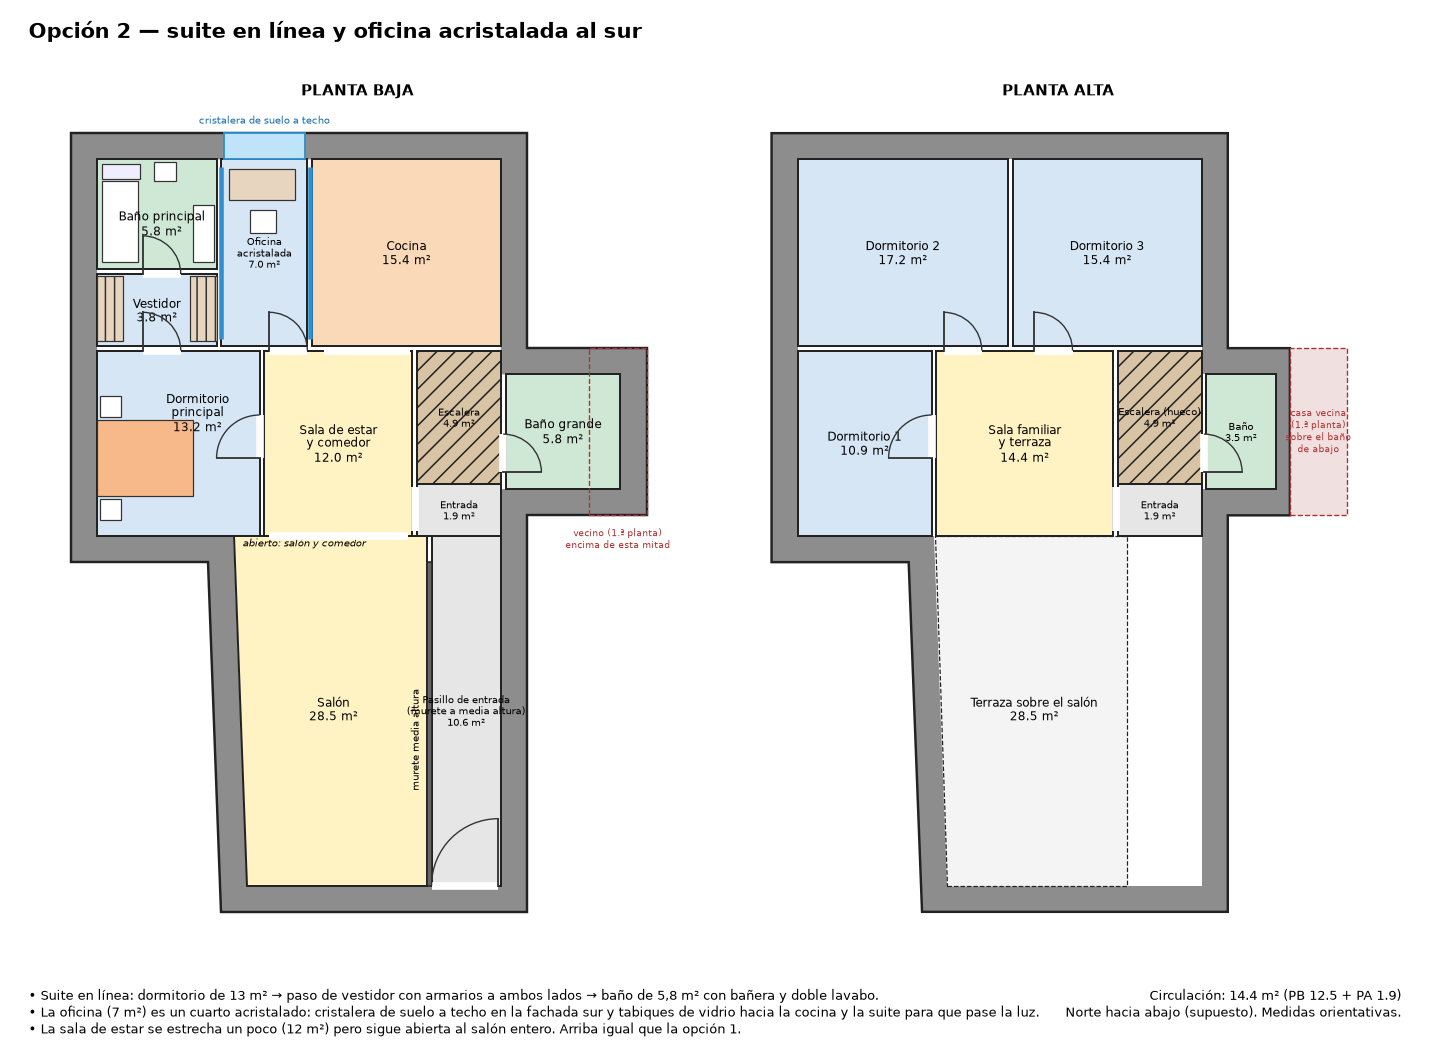
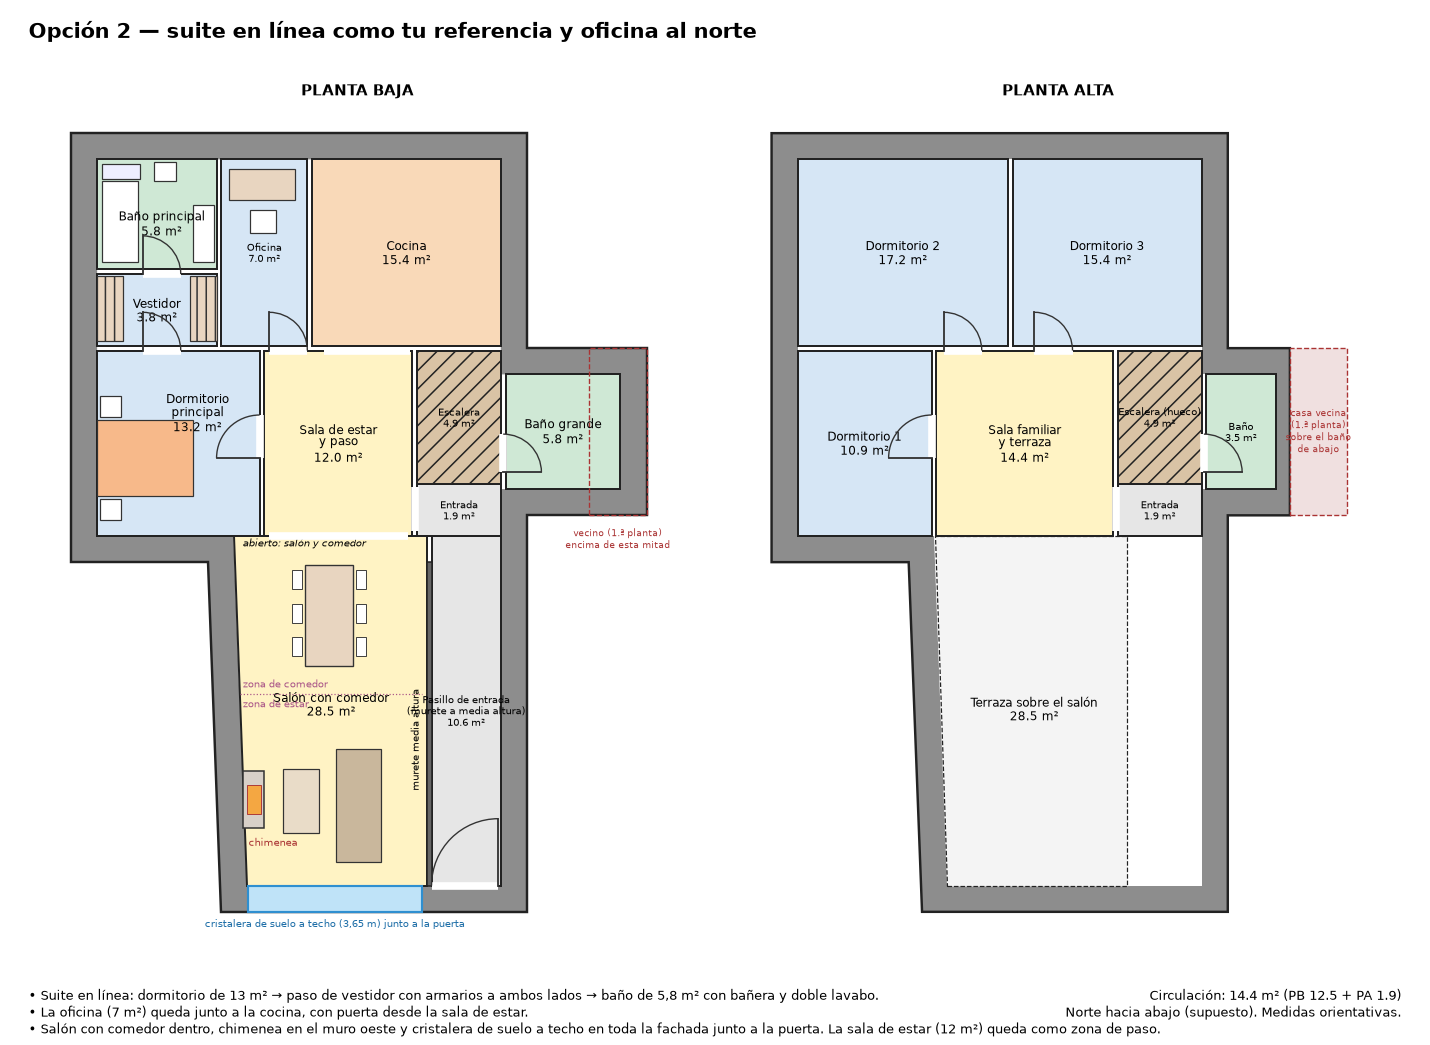
Salón con comedor dentro, chimenea en el muro oeste y cristalera frontal junto a la puerta; oficina normal
Claude-Session: https://claude.ai/code/session_01GrFzVPJDRJqirwnmNdffa5

diff --git a/casa3d/opciones.py b/casa3d/opciones.py
@@ -3,7 +3,7 @@ Arriba del croquis = sur (cocina); derecha = este; el pasillo de entrada va por 
 import math
 import matplotlib; matplotlib.use("Agg")
 import matplotlib.pyplot as plt
-from matplotlib.patches import Polygon as MPoly, Rectangle, Arc
+from matplotlib.patches import Polygon as MPoly, Rectangle, Arc, Polygon
 from shapely.geometry import Polygon
 
 XE, Y_TOP, Y_JUNC = 9.55, 16.30, 7.32
@@ -22,7 +22,7 @@ from shapely.geometry import box as sbox
 OUT_PA = OUT.intersection(sbox(-1, -1, 10.85, 20)); INN_PA = INN.intersection(sbox(-1, -1, 10.55, 20))   # en planta alta el baño solo entra la mitad hacia el vecino
 COMUN_PB = [("Pasillo de entrada\n(murete a media altura)", "circ", R(7.55, 0.55, 9.00, 7.87)), ("Entrada", "circ", R(7.25, 7.87, 9.00, 8.95)),
             ("Escalera", "esc", R(7.25, 8.95, 9.00, 11.75)), ("Baño grande", "humedo", R(9.10, 8.85, 11.50, 11.25)),
-            ("Cocina", "cocina", R(5.05, 11.85, 9.00, 15.75)), ("Salón", "sala", SALON)]
+            ("Cocina", "cocina", R(5.05, 11.85, 9.00, 15.75)), ("Salón con comedor", "sala", SALON, (5.45, 4.35))]
 COMUN_DOORS = [FRONT, (9.05, 9.20, "V", 0.80, 0, 1), (5.30, 11.75, "H", 1.80, 0, 0)]
 BASE_PA = [("Terraza sobre el salón", "terraza", SALON), ("Entrada", "circ", R(7.25, 7.87, 9.00, 8.95)), ("Escalera (hueco)", "esc", R(7.25, 8.95, 9.00, 11.75)),
            ("Baño", "humedo", R(9.10, 8.85, 10.55, 11.25)), ("Sala familiar\ny terraza", "sala", R(3.45, 7.87, 7.15, 11.75)),
@@ -33,6 +33,20 @@ DOORS_PA = [(3.35, 9.50, "V", 0.90, 0, -1), (3.60, 11.75, "H", 0.80, 0, 1), (5.5
 def F(ax, kind, *a, **k):
     z = 5
     if kind == "rect": ax.add_patch(Rectangle((a[0], a[1]), a[2], a[3], fc=k.get("fc", "#fff"), ec="#333", lw=.8, hatch=k.get("hatch"), zorder=z))
+
+
+def muebles_salon(ax):
+    z = 5
+    ax.add_patch(Rectangle((3.60, 1.75), 0.45, 1.20, fc="#d8d0c8", ec="#333", lw=1.0, zorder=z))                      # chimenea (muro oeste, medianera)
+    ax.add_patch(Polygon([(3.62, 2.02), (4.02, 2.35), (3.62, 2.68)], closed=True, fc="#f4a742", ec="#a33", lw=.6, zorder=z + 1) if False else Rectangle((3.68, 2.05), 0.30, 0.60, fc="#f4a742", ec="#a33", lw=.6, zorder=z + 1))
+    ax.text(3.72, 1.55, "chimenea", fontsize=6.3, color="#a33", va="top", zorder=8)
+    ax.add_patch(Rectangle((5.55, 1.05), 0.95, 2.35, fc="#c9b79c", ec="#333", lw=.8, zorder=z))                        # sofá de tres plazas
+    ax.add_patch(Rectangle((4.45, 1.65), 0.75, 1.35, fc="#e9dcc8", ec="#333", lw=.8, zorder=z))                        # mesa baja / alfombra
+    ax.add_patch(Rectangle((4.90, 5.15), 1.00, 2.10, fc="#e8d5c0", ec="#333", lw=.9, zorder=z))                        # mesa de comedor para 6
+    for y in (5.35, 6.05, 6.75):
+        ax.add_patch(Rectangle((4.62, y), 0.22, 0.4, fc="#fff", ec="#333", lw=.6, zorder=z)); ax.add_patch(Rectangle((5.96, y), 0.22, 0.4, fc="#fff", ec="#333", lw=.6, zorder=z))
+    ax.plot([3.55, 7.35], [4.55, 4.55], color="#a58", lw=.8, ls=":", zorder=6)
+    ax.text(3.6, 4.65, "zona de comedor", fontsize=6.3, color="#a58", va="bottom", zorder=8); ax.text(3.6, 4.45, "zona de estar", fontsize=6.3, color="#a58", va="top", zorder=8)
 
 
 def muebles_1(ax):       # suite compacta al norte-oeste, oficina en el ala oeste
@@ -56,21 +70,20 @@ OPCIONES = {
   titulo="Opción 1 — oficina en el ala oeste y suite compacta",
   ideas=["La oficina (10,9 m²) ocupa el ala oeste, con puerta desde la sala de estar; ya no hay nada raro en el salón, que queda entero.",
          "Suite al norte-oeste: dormitorio de 11 m², vestidor y baño en una franja al lado. Es la más ajustada de las dos.",
-         "Pasillo de entrada con murete, entrada amplia con escalera y baño; todo abre a la sala. Arriba sin pasillo."],
-  PB=COMUN_PB + [("Sala de estar\ny comedor", "sala", R(3.45, 7.87, 7.15, 11.75)), ("Oficina", "priv", R(0.55, 7.87, 3.35, 11.75)),
+         "Salón con comedor dentro y chimenea en el muro oeste (medianera); toda la fachada sur del salón es cristalera junto a la puerta. Arriba sin pasillo."],
+  PB=COMUN_PB + [("Sala de estar\ny paso", "sala", R(3.45, 7.87, 7.15, 11.75)), ("Oficina", "priv", R(0.55, 7.87, 3.35, 11.75)),
                  ("Dormitorio\nprincipal", "priv", R(2.05, 11.85, 4.95, 15.75), (3.55, 12.7)), ("Vestidor", "priv", R(0.55, 14.15, 1.95, 15.75), (1.25, 14.95)),
                  ("Baño", "humedo", R(0.55, 11.85, 1.95, 14.05), (1.25, 12.85))],
   doorsPB=COMUN_DOORS + [(3.35, 9.50, "V", 0.90, 0, -1), (3.70, 11.75, "H", 0.80, 0, 1), (1.95, 14.40, "V", 0.80, 0, 1), (0.80, 14.05, "H", 0.80, 0, -1)],
   abPB=[(3.55, 7.87, 7.05, 7.87), (7.20, 7.97, 7.20, 8.90)], muebles=muebles_1, PA=BASE_PA, doorsPA=DOORS_PA, abPA=[(7.20, 7.97, 7.20, 8.90)]),
  "2": dict(
-  titulo="Opción 2 — suite en línea y oficina acristalada al sur",
-  vidrios=[("hueco", 3.20, 15.75, 1.70, 0.55, "cristalera de suelo a techo"), ("linea", 5.00, 12.00, 5.00, 15.60), ("linea", 3.15, 12.00, 3.15, 15.60)],
+  titulo="Opción 2 — suite en línea como tu referencia y oficina al norte",
   ideas=["Suite en línea: dormitorio de 13 m² → paso de vestidor con armarios a ambos lados → baño de 5,8 m² con bañera y doble lavabo.",
-         "La oficina (7 m²) es un cuarto acristalado: cristalera de suelo a techo en la fachada sur y tabiques de vidrio hacia la cocina y la suite para que pase la luz.",
-         "La sala de estar se estrecha un poco (12 m²) pero sigue abierta al salón entero. Arriba igual que la opción 1."],
-  PB=COMUN_PB + [("Sala de estar\ny comedor", "sala", R(4.05, 7.87, 7.15, 11.75)), ("Dormitorio\nprincipal", "priv", R(0.55, 7.87, 3.95, 11.75), (2.65, 10.45)),
+         "La oficina (7 m²) queda junto a la cocina, con puerta desde la sala de estar.",
+         "Salón con comedor dentro, chimenea en el muro oeste y cristalera de suelo a techo en toda la fachada junto a la puerta. La sala de estar (12 m²) queda como zona de paso."],
+  PB=COMUN_PB + [("Sala de estar\ny paso", "sala", R(4.05, 7.87, 7.15, 11.75)), ("Dormitorio\nprincipal", "priv", R(0.55, 7.87, 3.95, 11.75), (2.65, 10.45)),
                  ("Vestidor", "priv", R(0.55, 11.85, 3.05, 13.35), (1.8, 12.6)), ("Baño principal", "humedo", R(0.55, 13.45, 3.05, 15.75), (1.9, 14.4)),
-                 ("Oficina\nacristalada", "priv", R(3.15, 11.85, 4.95, 15.75))],
+                 ("Oficina", "priv", R(3.15, 11.85, 4.95, 15.75))],
   doorsPB=COMUN_DOORS + [(3.95, 9.50, "V", 0.90, 0, -1), (1.50, 11.75, "H", 0.80, 0, 1), (1.50, 13.35, "H", 0.80, 0, 1), (4.15, 11.75, "H", 0.80, 0, 1)],
   abPB=[(4.15, 7.87, 7.05, 7.87), (7.20, 7.97, 7.20, 8.90)], muebles=muebles_2, PA=BASE_PA, doorsPA=DOORS_PA, abPA=[(7.20, 7.97, 7.20, 8.90)]),
 }
@@ -108,6 +121,7 @@ LABEL_POS = {"Dormitorio\nprincipal": (3.9, 12.75), "Vestidor": (1.95, 10.65), "
 
 MUEBLES = None
 VIDRIOS = []
+CRISTALERA_FRONTAL = (3.70, 0.0, 3.65, 0.55)     # de la esquina oeste hasta la puerta de entrada
 
 
 def dibujar(ax, rooms, doors, planta, abiertos=()):
@@ -131,8 +145,11 @@ def dibujar(ax, rooms, doors, planta, abiertos=()):
     if planta == "PB":
         ax.add_patch(Rectangle((7.45, 0.55), 0.10, 6.77, fc="#666", ec="#222", zorder=4)); ax.text(7.33, 3.6, "murete media altura", rotation=90, ha="right", va="center", fontsize=6.5)
         ax.text(3.6, 7.65, "abierto: salón y comedor", fontsize=6.5, style="italic", zorder=6)
+    if planta == "PB": muebles_salon(ax)
     if planta == "PB" and MUEBLES: MUEBLES(ax)
     if planta == "PB":
+        cx0, cy0, cw, ch = CRISTALERA_FRONTAL
+        ax.add_patch(Rectangle((cx0, cy0), cw, ch, fc="#bfe3f8", ec="#2f8fd0", lw=1.4, zorder=6)); ax.text(cx0 + cw / 2, cy0 - 0.15, "cristalera de suelo a techo (3,65 m) junto a la puerta", ha="center", va="top", fontsize=6.6, color="#1f6fa8", zorder=8)
         for v in VIDRIOS:
             if v[0] == "hueco": ax.add_patch(Rectangle((v[1], v[2]), v[3], v[4], fc="#bfe3f8", ec="#2f8fd0", lw=1.2, zorder=6)); ax.text(v[1] + v[3] / 2, v[2] + v[4] + 0.15, v[5], ha="center", va="bottom", fontsize=6.5, color="#1f6fa8", zorder=8)
             else: ax.plot([v[1], v[3]], [v[2], v[4]], color="#2f8fd0", lw=3, zorder=6, solid_capstyle="butt")

diff --git a/casa3d/estructura.py b/casa3d/estructura.py
@@ -107,7 +107,7 @@ R["viga_cub"] = dict(perfil=vr["name"])
 Rc = vr["R"] * (SPAN_NS[0] + SPAN_NS[1]) / SPAN_NS[0]
 
 # 5) dintel de la cristalera (luz libre 3,60 + 2 x 0,20 de apoyo)
-Ld = 4.0
+Ld = 4.1
 g_muro = 0.55 * 0.71 * GAMMA_MURO + 0.30 * 1.0 * GAMMA_MURO      # muro sobre hueco hasta la terraza + antepecho
 eq_G = 0.45 * G_TERRAZA; eq_Q = 0.45 * Q_TERRAZA
 lint = None

diff --git a/casa3d/memoria_estructura.md b/casa3d/memoria_estructura.md
@@ -32,9 +32,9 @@ Sección: **HEB 160**. M/Mrd = 0.55; V/Vrd = 0.25; flecha 12.8 mm (límite 14.0)
 
 Vigas N-S de cubierta: **HEB 160** (M/Mrd 0.56, flecha 13.4/14.0 mm).
 
-## Dintel sobre la cristalera (luz 4.00 m; muro y antepecho 13.8 kN/m)
+## Dintel sobre la cristalera (luz 4.10 m; muro y antepecho 13.8 kN/m)
 
-Sección: **HEB 160** (M/Mrd 0.51, flecha 11.0/13.3 mm). Se aloja en el espesor del muro con placas de apoyo de 0,20 m en cada extremo.
+Sección: **HEB 160** (M/Mrd 0.53, flecha 12.2/13.7 mm). Se aloja en el espesor del muro con placas de apoyo de 0,20 m en cada extremo.
 
 ## Viga de fachada (sustituye al muro entre salón y casa, en cada planta; luz 2.30 m entre pilares)
 
@@ -57,6 +57,3 @@ Las viguetas apoyan en placas de reparto sobre un zuncho perimetral (perfil UPN 
 - Uniones, anclajes, protección contra fuego (R60 en vivienda de 2 plantas según CTE DB-SI) y comprobación de pandeo lateral.
 - Cálculo de la chapa colaborante, del anclaje de los paneles solares al viento y de la impermeabilización con los fabricantes.
 - Este documento no sustituye al proyecto de estructura visado.
-## Acero del modelo 3D (sin uniones ni placas)
-IPE 220: 1.101 kg · IPE 120: 1.379 kg · IPE 100: 90 kg · HEB 160: 2.324 kg · HEB 120: 1.262 kg · **Total ≈ 6.150 kg**.
-Para el precio, pide presupuesto a un taller con este listado y con `lamina_A1_v3_estructura.dxf`.
